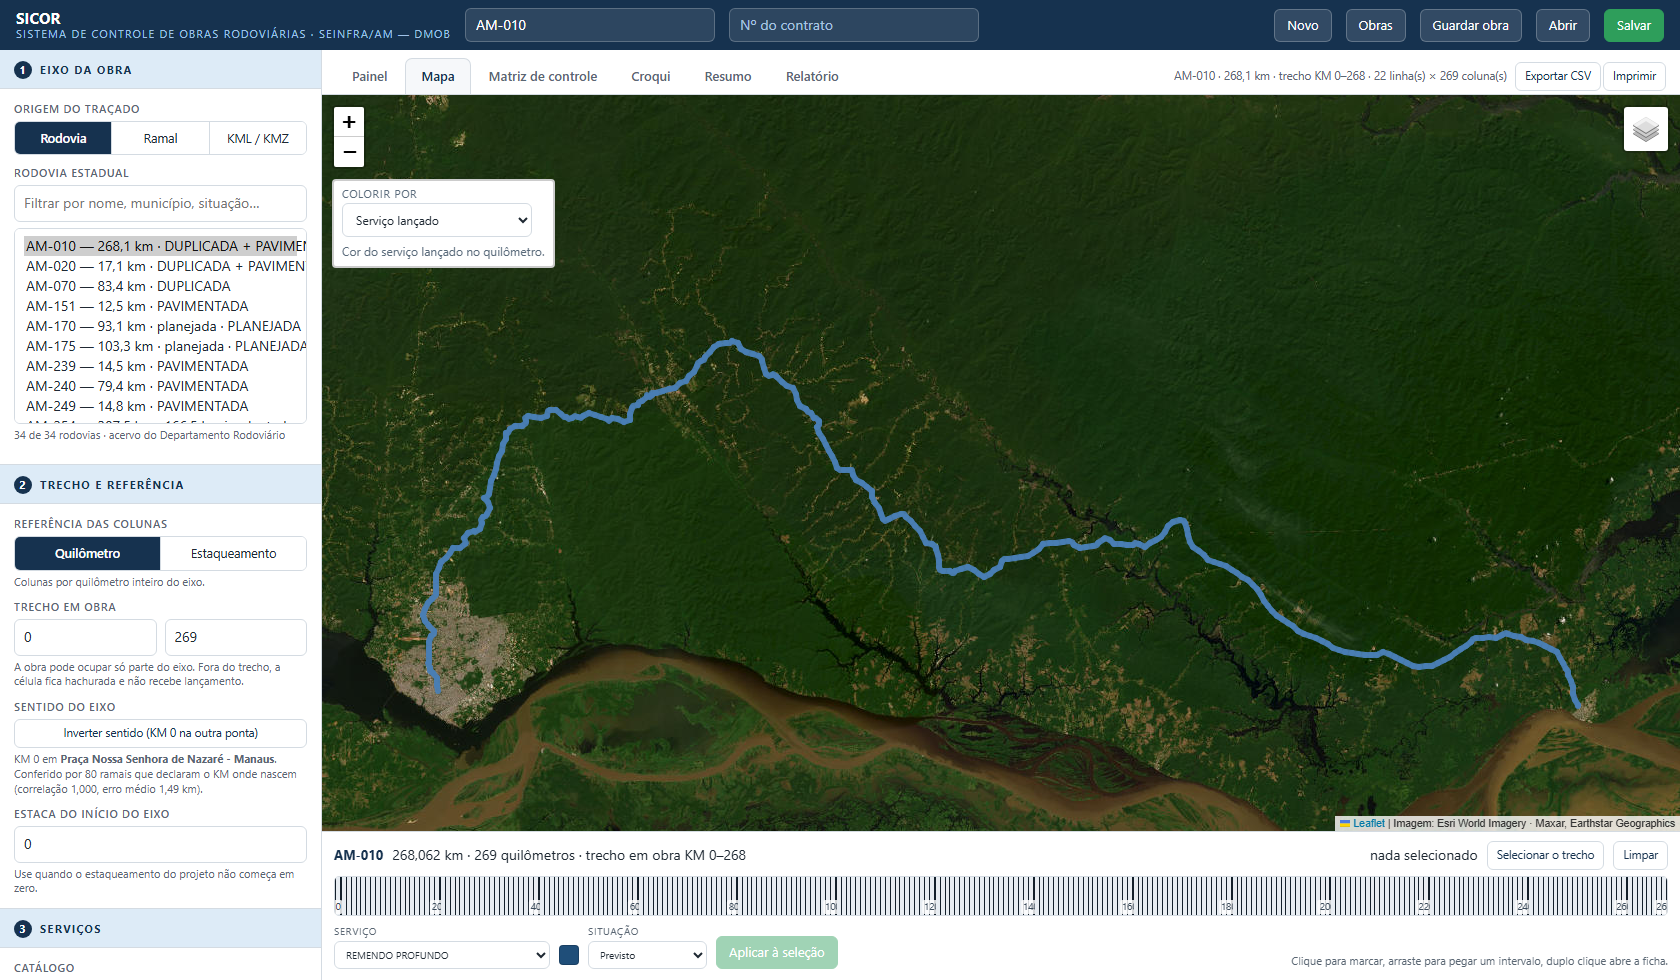
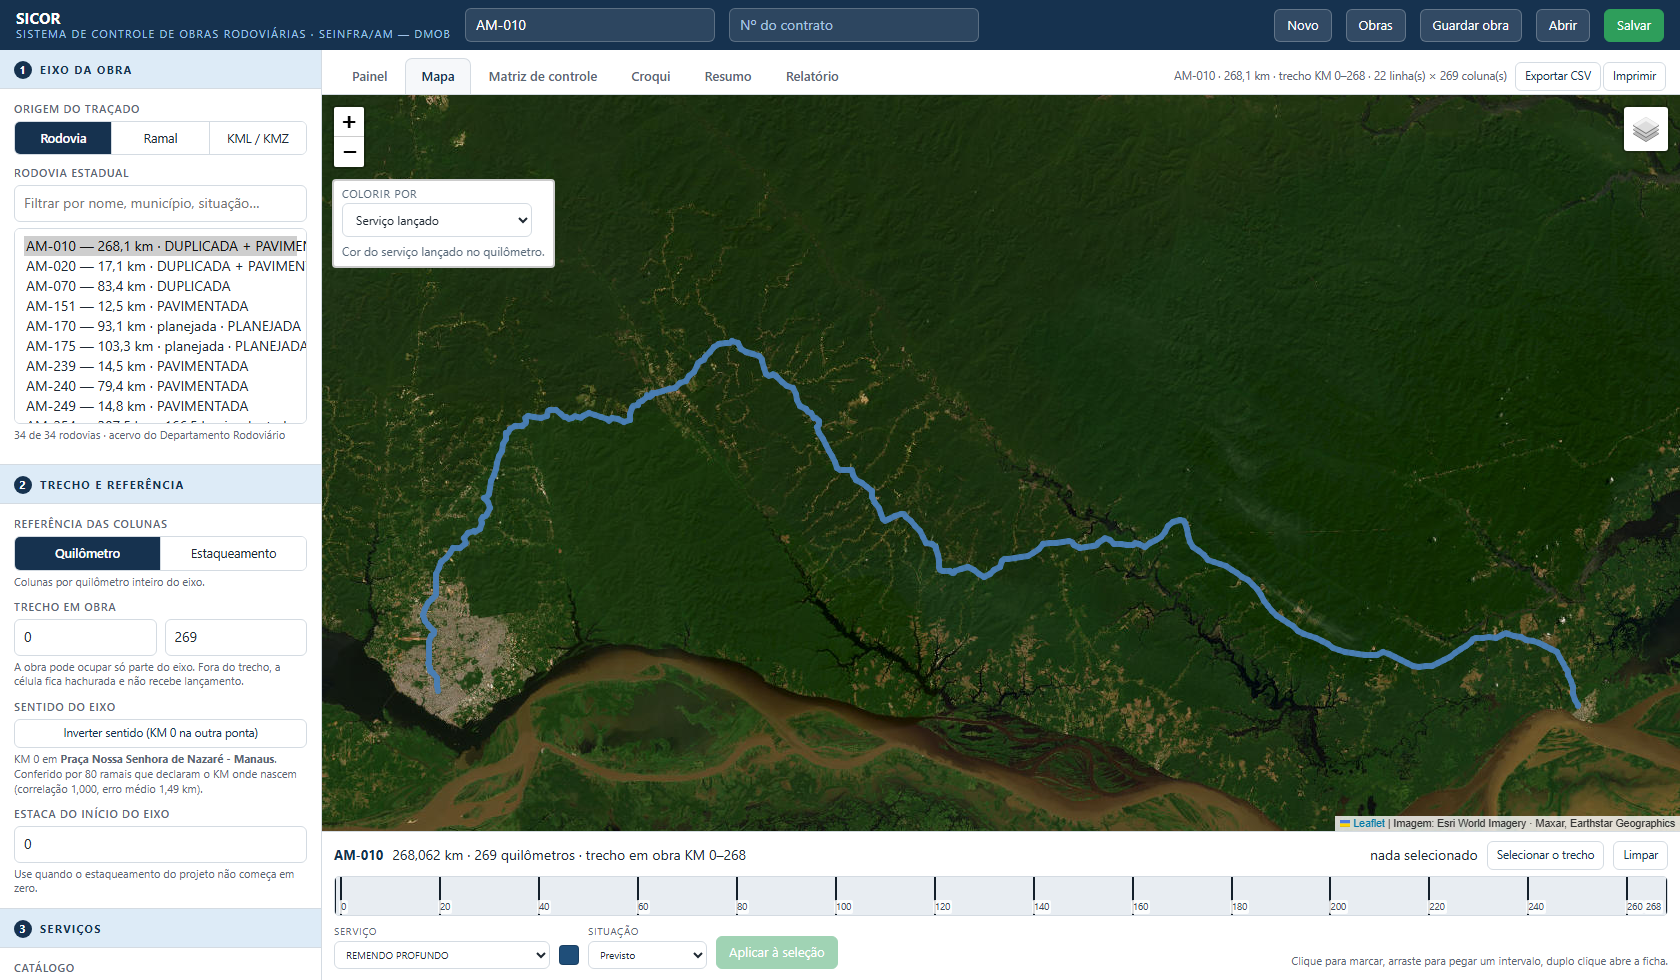
fix(faixa): régua legível em rodovia longa
A divisa preta em toda célula virava um pente ilegível na AM-010: 269 divisas de 1px em
célula de 5px. Acima de 60 quilômetros a divisa fica só no marco. O rótulo passou a
encostar na divisa da esquerda — marca o início do quilômetro e antes era cortado ao meio —
e a célula de marco subiu na pilha, porque o fundo da célula seguinte cobria o número.

Changed region(s): [[0.2167, 0.8571, 0.9905, 0.9796], [0.7738, 0.9796, 0.9905, 1.0]]

diff --git a/index.html b/index.html
@@ -183,14 +183,24 @@ table.res tfoot td{background:#F1F4F7;font-weight:700}
    Em divisa de marco (a que leva rótulo) a linha engrossa, para a escala se ler de longe. */
 .faixaTrilho .km{position:relative;flex:1 1 0;min-width:4px;
   border-right:1px solid #14202B;transition:box-shadow .08s}
-.faixaTrilho .km.marco{border-right-width:2px}
+/* A célula de marco sobe na pilha: o rótulo transborda para a célula seguinte, e sem isto
+   o fundo dela — pintado depois, por ser irmã posterior — cobre o número. */
+.faixaTrilho .km.marco{border-right-width:2px;z-index:3}
+/* Rodovia longa: 269 divisas de 1px em célula de 5px viram um pente preto, e a régua deixa
+   de informar. Acima de 60 quilômetros a divisa fica só no marco — a escala continua legível
+   e a divisão entre os quilômetros do marco é o que o olho usa para contar. */
+.faixaTrilho.densa .km{border-right-color:transparent}
+.faixaTrilho.densa .km.marco{border-right-color:#14202B}
 .faixaTrilho .km:first-child{border-left:1px solid #14202B}
 .faixaTrilho .km:last-child{border-right:1px solid #14202B}
 .faixaTrilho .km.fora{background-image:repeating-linear-gradient(45deg,#fff 0 4px,#E3E9EF 4px 8px)}
-.faixaTrilho .km.sel{box-shadow:inset 0 0 0 2px var(--navy);z-index:2}
-.faixaTrilho .rot{position:absolute;bottom:1px;left:50%;transform:translateX(-50%);
-  font-size:9.5px;color:#3A4A5A;background:rgba(255,255,255,.82);padding:0 2px;border-radius:2px;
+.faixaTrilho .km.sel{box-shadow:inset 0 0 0 2px var(--navy);z-index:4}
+/* O rótulo marca o INÍCIO do quilômetro: fica encostado na divisa da esquerda, e não
+   centrado — centrado, a divisa cortava o número em dois. */
+.faixaTrilho .rot{position:absolute;bottom:1px;left:3px;
+  font-size:9.5px;color:#3A4A5A;background:rgba(255,255,255,.86);padding:0 2px;border-radius:2px;
   pointer-events:none;white-space:nowrap}
+.faixaTrilho .km:last-child .rot{left:auto;right:3px}
 #barraLanca{display:flex;align-items:end;gap:9px;margin-top:8px;flex-wrap:wrap}
 #barraLanca label{display:flex;flex-direction:column;gap:3px;font-size:10px;text-transform:uppercase;
   letter-spacing:.06em;color:var(--texto2)}

diff --git a/app/13-faixa.js b/app/13-faixa.js
@@ -72,7 +72,7 @@ function pintaFaixa(){
       <button class="mini" id="btSelTrecho">Selecionar o trecho</button>
       <button class="mini" id="btSelLimpa">Limpar</button>
     </div>
-    <div class="faixaTrilho" id="faixaTrilho">${celulas}</div>`;
+    <div class="faixaTrilho${S.segs.length > 60 ? ' densa' : ''}" id="faixaTrilho">${celulas}</div>`;
   ligaFaixa();
   atualizaSelecao();
 }
